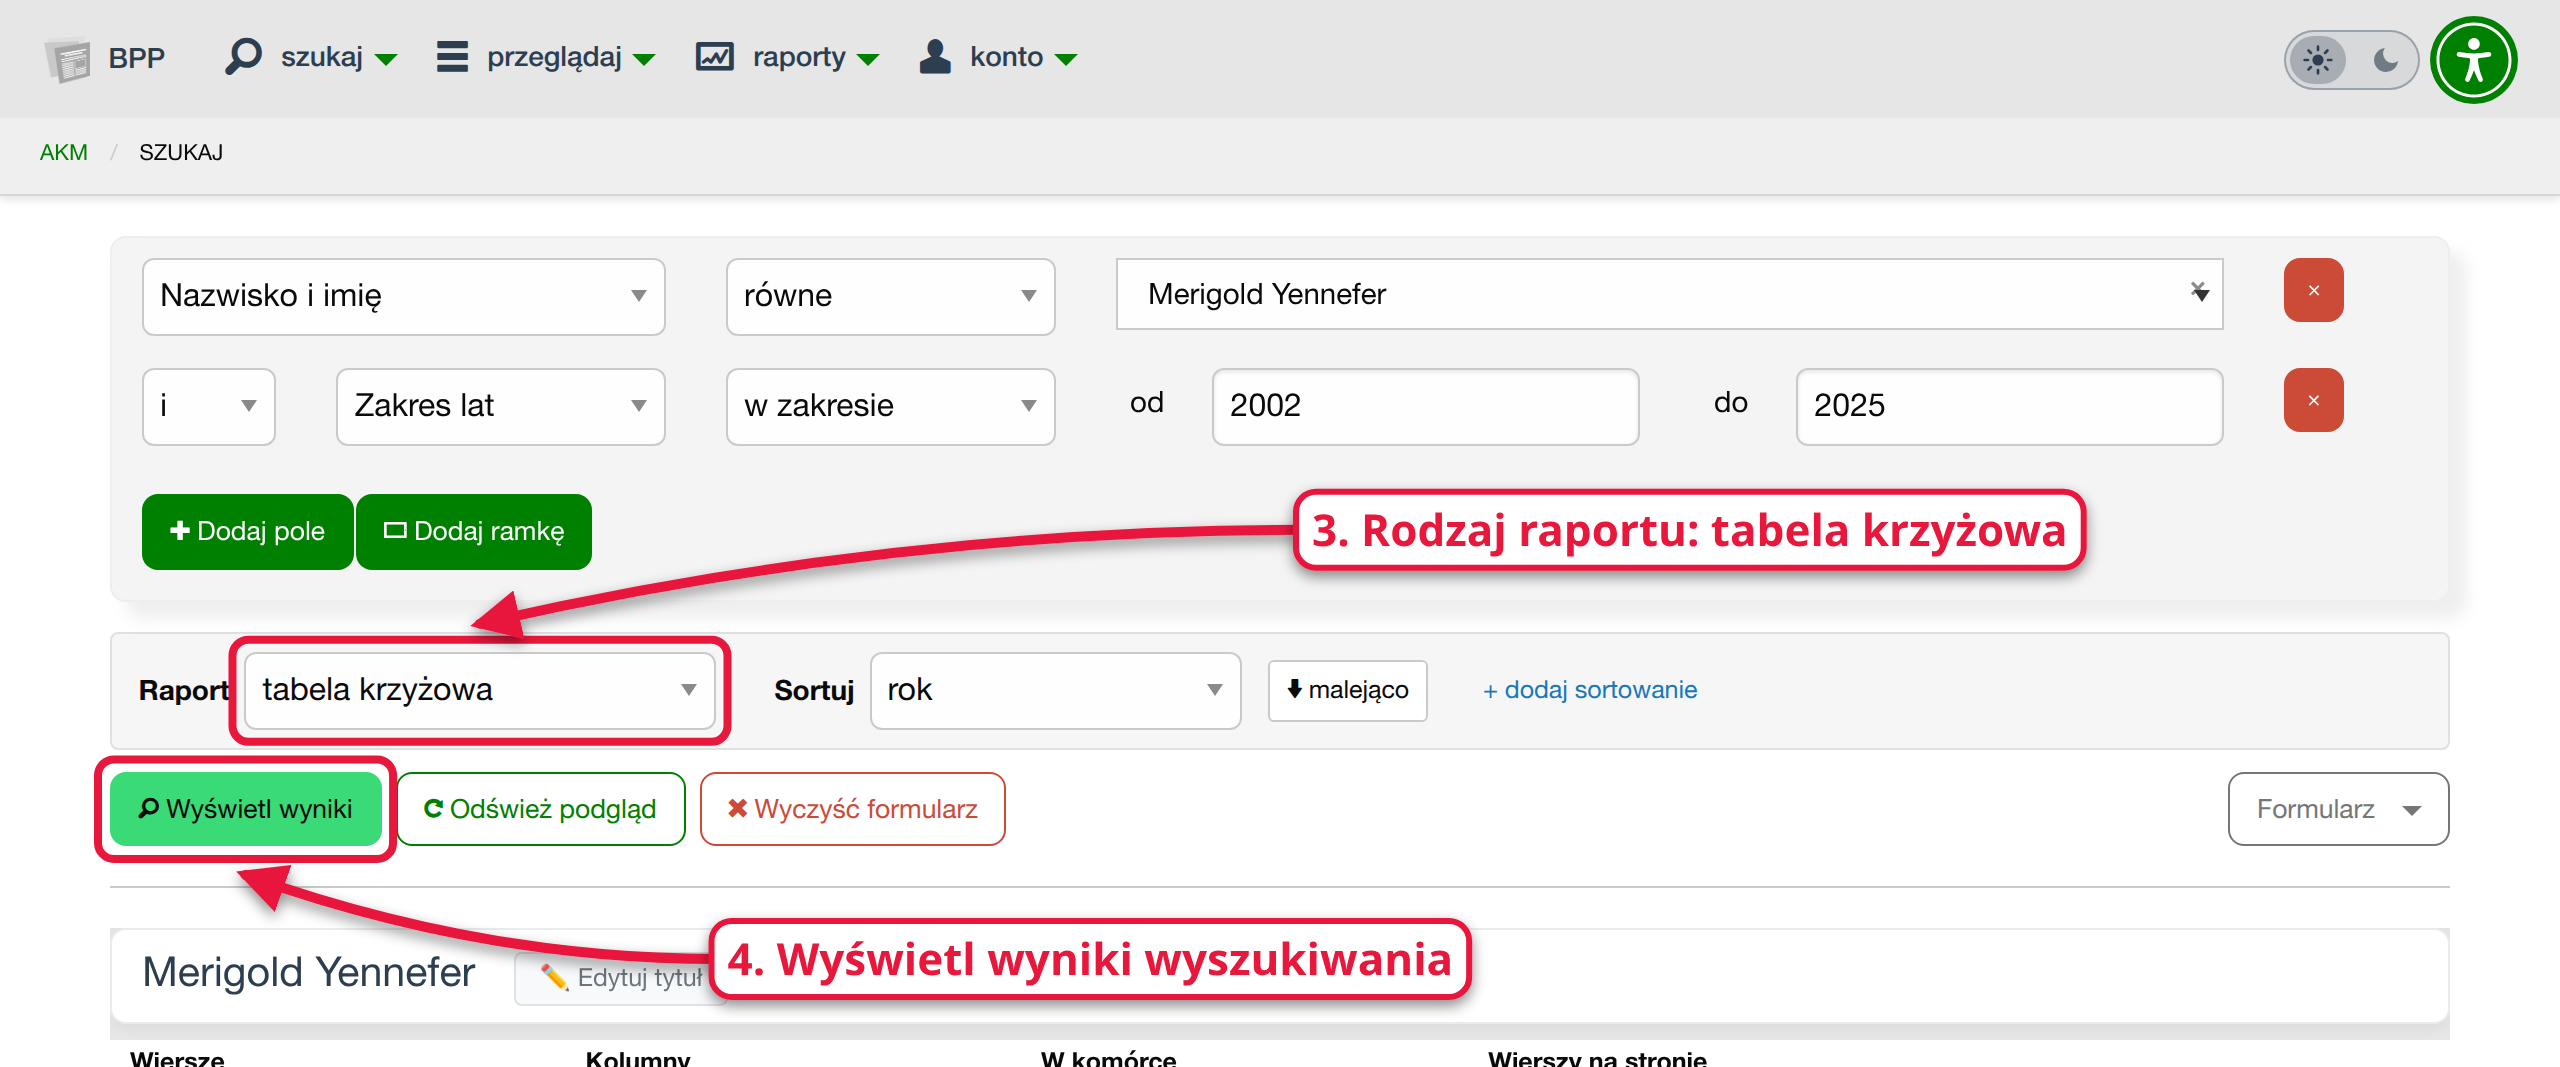
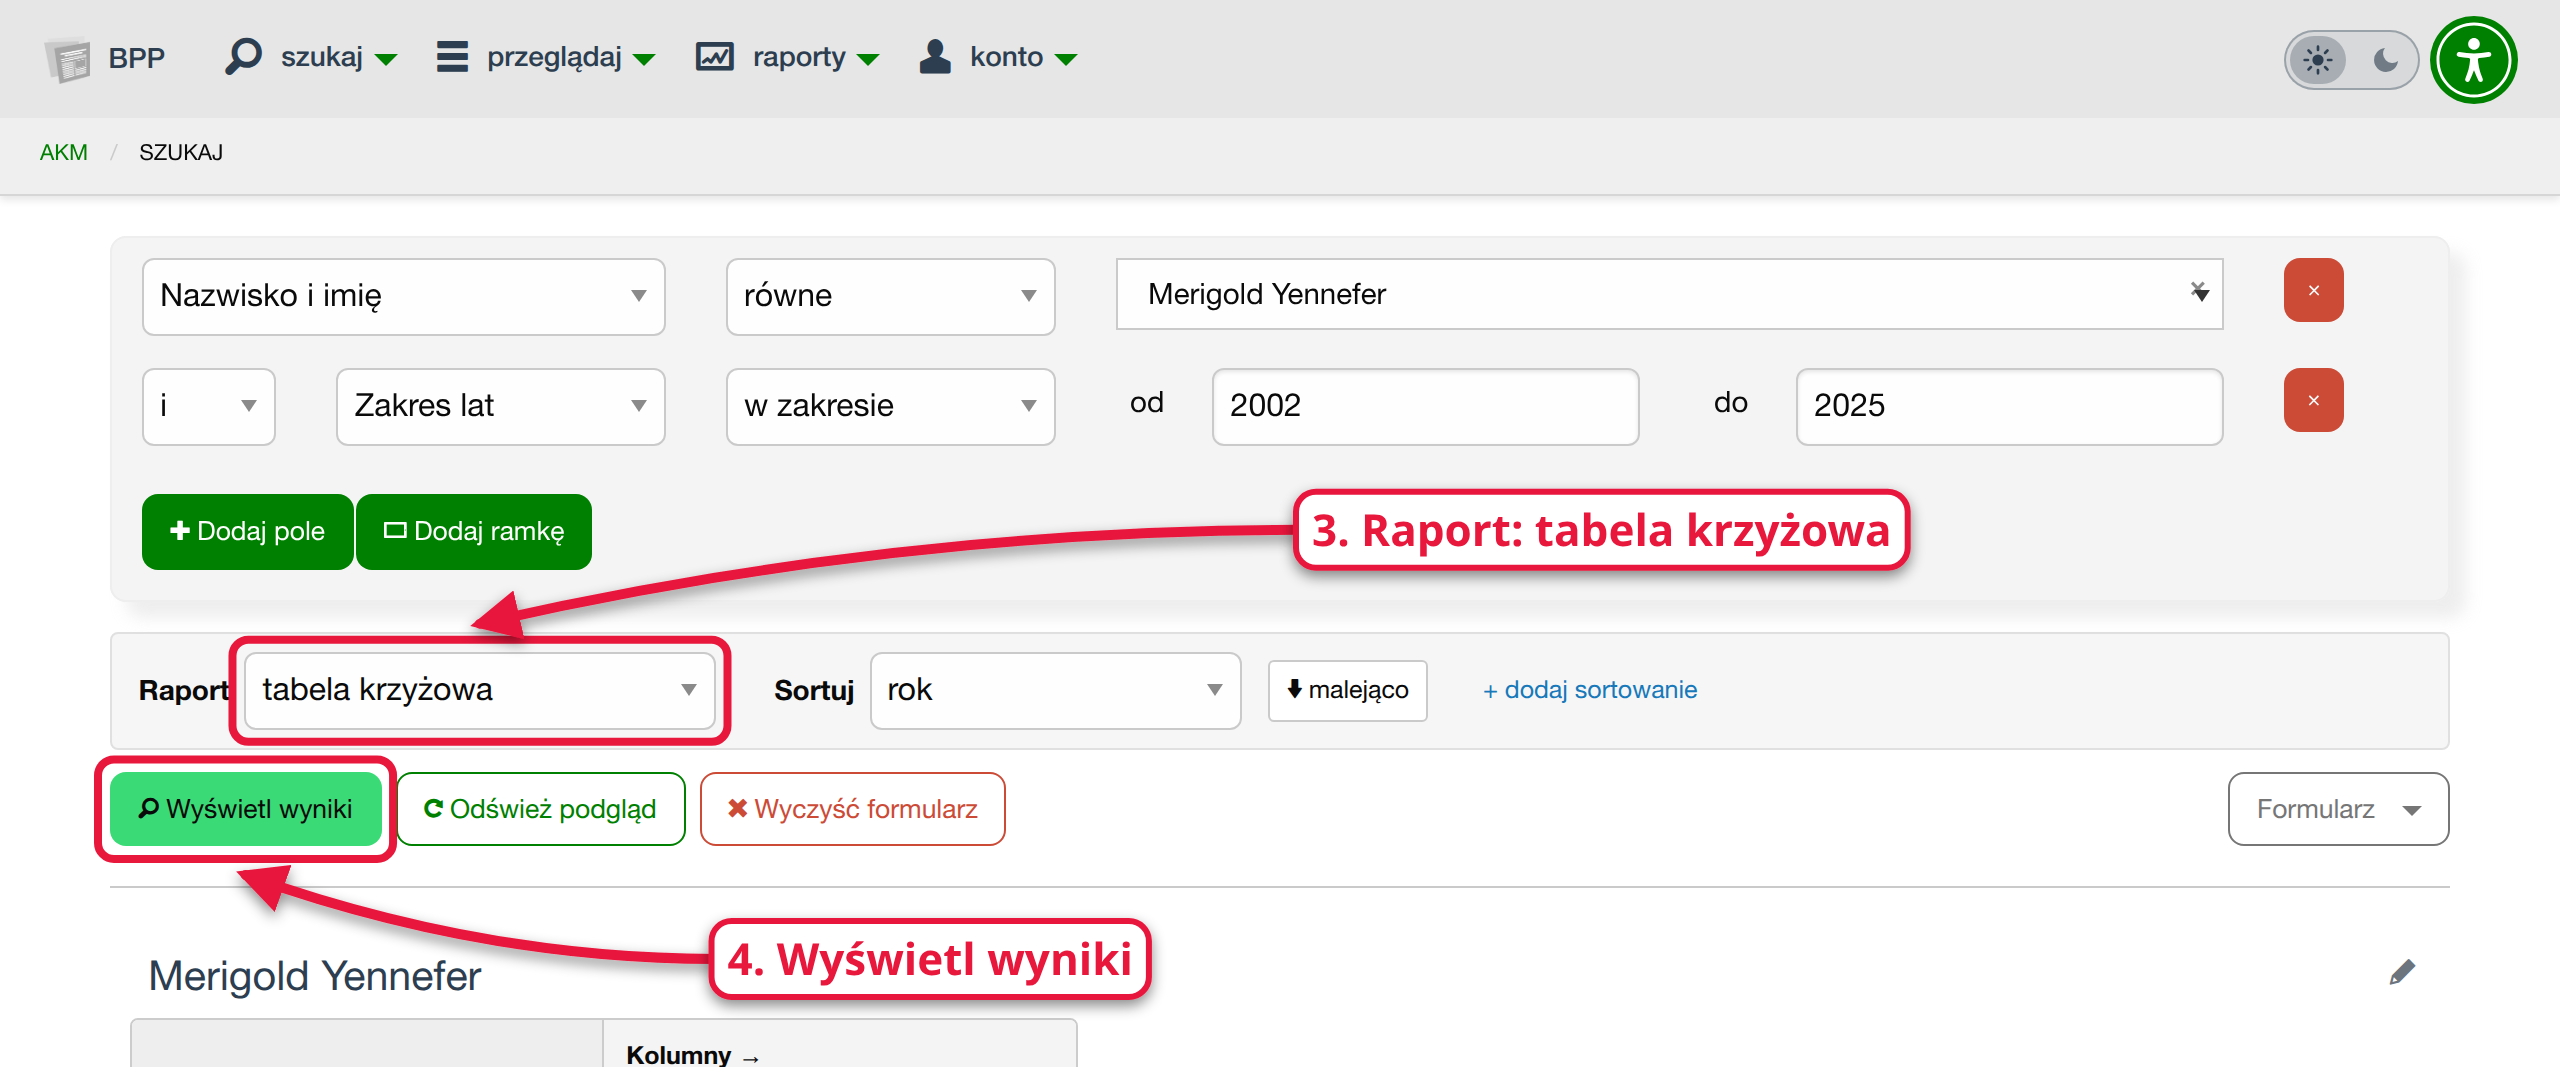
Dokumentacja wyszukiwania precyzyjnego: nazwy z obecnego formularza
Commit 5520080b8 zmienił formularz wyszukiwania precyzyjnego, a
dokumentacja i podpisy na zrzutach nadal używały starych nazw:
- „Wyświetl wyniki wyszukiwania” → „Wyświetl wyniki”,
- „Resetuj formularz” → „Wyczyść formularz”,
- lista „Rodzaj raportu” → „Raport”,
- „Sortuj według” + dwa „a następnie” → „Sortuj” i „+ dodaj sortowanie”
  („potem”, najwyżej dwa poziomy, przełącznik rosnąco/malejąco),
- „Pokaż jako zapytanie DjangoQL” to pozycja menu „Formularz”, nie
  osobny przycisk; „Wczytaj formularz” → lista „Wczytaj zapisany
  formularz” w tym menu.

Nazwy sprawdzone w src/django_bpp/templates/multiseek/index.html.
Przegenerowane tylko zrzuty ze zmienionymi podpisami:
tabela-krzyzowa/02-formularz-rodzaj-raportu.png,
wyszukiwanie-precyzyjne/03-raport-przyciski.png.

Claude-Session: https://claude.ai/code/session_01Mr7s9p8Mji5yWfDm2AB4hC

diff --git a/bin/docs-screenshots.py b/bin/docs-screenshots.py
@@ -6715,14 +6715,14 @@ def tabela_krzyzowa(page: Page, base: str, out: Path) -> None:
                 # label right of "Dodaj ramkę", so the arrow passes below it
                 "sel": "#id_report_type",
                 "arrow": "above",
-                "label": "3. Rodzaj raportu: tabela krzyżowa",
+                "label": "3. Raport: tabela krzyżowa",
                 "dx": 350,
                 "dy": 55,
             },
             {
                 "sel": "#multiseek-szukaj",
                 "arrow": "below",
-                "label": "4. Wyświetl wyniki wyszukiwania",
+                "label": "4. Wyświetl wyniki",
                 "dx": 175,
                 "dy": -60,
             },
@@ -8311,7 +8311,7 @@ def wyszukiwanie_precyzyjne(page: Page, base: str, out: Path) -> None:
             {
                 "sel": "#id_report_type",
                 "arrow": "above",
-                "label": "rodzaj raportu",
+                "label": "raport",
                 "dx": -30,
                 "dy": -30,
             },

diff --git a/docs/uzytkownik/wyszukiwanie-precyzyjne.md b/docs/uzytkownik/wyszukiwanie-precyzyjne.md
@@ -123,31 +123,32 @@ rozdział):
 Bez ramki „autor i książka lub rozdział” znalazłoby książki tej autorki
 **oraz wszystkie rozdziały w bazie**, także cudze.
 
-## Podgląd, pełne wyniki, rodzaj raportu i sortowanie
+## Podgląd, pełne wyniki, raport i sortowanie
 
 Pod warunkami znajdziesz:
 
-- **Rodzaj raportu** — jak pokazać wyniki: **lista** (opisy
+- **Raport** — jak pokazać wyniki: **lista** (opisy
   bibliograficzne), **tabela** (z kolumnami IF, PK, charakter, typ),
   **punktacja sumaryczna** (tabela z sumami punktów), **BibTeX** (do
   skopiowania przyciskiem „Skopiuj wszystko do schowka”) oraz **tabela
   krzyżowa** — zestawienie liczb w wierszach i kolumnach (osobny artykuł:
   [Tabela krzyżowa](tabela-krzyzowa.md)). Zalogowani mają dodatkowo
   m.in. „numerowaną listę z uwagami” i warianty z liczbą cytowań.
-- **Sortuj według** oraz dwa razy **„a następnie”** — do trzech poziomów
-  sortowania (rok, tytuł, punkty, impact factor, liczba cytowań, charakter
-  formalny…). Pole **„malejąco”** odwraca kolejność. Domyślnie: rok,
-  malejąco.
-- **„Wyświetl wyniki wyszukiwania”** — otwiera osobną stronę z pełnymi
+- **Sortuj** — kryterium sortowania (rok, tytuł, punkty, impact factor,
+  liczba cytowań, charakter formalny…). Przycisk **„+ dodaj sortowanie”**
+  dokłada drugie kryterium (**„potem”**), **×** je usuwa — najwyżej dwa
+  poziomy. Przełącznik obok pola (**„↑ rosnąco”** / **„↓ malejąco”**)
+  zmienia kierunek. Domyślnie: rok, malejąco.
+- **„Wyświetl wyniki”** — otwiera osobną stronę z pełnymi
   wynikami (patrz [Praca z wynikami](wyszukiwanie-precyzyjne-wyniki.md)).
 - **„Odśwież podgląd”** — pokazuje wyniki **pod formularzem**, bez
   opuszczania strony. Podgląd nie odświeża się sam po zmianie warunku —
-  kliknij ten przycisk. Zmiana rodzaju raportu albo sortowania odświeża
+  kliknij ten przycisk. Zmiana raportu albo sortowania odświeża
   podgląd od razu.
-- **„Resetuj formularz”** — po potwierdzeniu czyści wszystkie warunki,
+- **„Wyczyść formularz”** — po potwierdzeniu czyści wszystkie warunki,
   przywraca domyślny tytuł i listę ręcznie usuniętych rekordów.
 
-![Rodzaj raportu, sortowanie, przyciski formularza i podgląd wyników z licznikiem „Razem”](../images/uzytkownik/wyszukiwanie-precyzyjne/03-raport-przyciski.png)
+![Raport, sortowanie, przyciski formularza i podgląd wyników z licznikiem „Razem”](../images/uzytkownik/wyszukiwanie-precyzyjne/03-raport-przyciski.png)
 
 Nad podglądem i wynikami widać **„Parametry zapytania”** — Twoje warunki
 zapisane zdaniem. To dobre miejsce, by sprawdzić, czy system zrozumiał
@@ -168,7 +169,7 @@ i kliknij **„Szukaj publikacji”**.
 
 Otworzy się formularz wyszukiwania precyzyjnego z **już wpisanymi
 warunkami** — możesz je zmieniać, dodawać kolejne albo od razu kliknąć
-„Wyświetl wyniki wyszukiwania”. Tytuł wyników przejmie wartość z pola
+„Wyświetl wyniki”. Tytuł wyników przejmie wartość z pola
 „Tytuł wyników” na stronie autora.
 
 ![Formularz otwarty ze strony autora: warunki „Nazwisko i imię” i „Zakres lat” są już wpisane](../images/uzytkownik/wyszukiwanie-precyzyjne/04-formularz-ze-strony-autora.png)
@@ -177,8 +178,9 @@ Każde takie przejście zaczyna nowe wyszukiwanie: poprzednie warunki
 i lista ręcznie usuniętych rekordów są zastępowane.
 
 !!! note "Dla redaktorów"
-    Redaktorzy widzą dodatkowo przycisk **„Pokaż jako zapytanie DjangoQL”**,
-    który przekłada formularz na zapytanie tekstowe — patrz
+    Redaktorzy mają dodatkowo w menu **„Formularz”** (po prawej, pod
+    warunkami) pozycję **„Pokaż jako zapytanie DjangoQL”**, która przekłada
+    formularz na zapytanie tekstowe — patrz
     [Wyszukiwanie i redagowanie](../redaktor/wyszukiwanie-redagowanie.md).
 
 ## Zobacz też

diff --git a/docs/uzytkownik/wyszukiwanie-precyzyjne-wyniki.md b/docs/uzytkownik/wyszukiwanie-precyzyjne-wyniki.md
@@ -2,7 +2,7 @@
 
 Gdy zapytanie jest gotowe (patrz
 [Wyszukiwanie precyzyjne — podstawy](wyszukiwanie-precyzyjne.md)), kliknij
-**„Wyświetl wyniki wyszukiwania”**. Otworzy się strona wyników — ten
+**„Wyświetl wyniki”**. Otworzy się strona wyników — ten
 artykuł opisuje, co można na niej zrobić: nadać tytuł, przejrzeć,
 wydrukować, ręcznie wyrzucić pojedyncze rekordy i pobrać plik.
 
@@ -28,14 +28,15 @@ zdaniem.
 
 ## Sortowanie
 
-Kolejność wyników ustawiasz **w formularzu**, polami **„Sortuj według”**
-i dwoma **„a następnie”** (do trzech poziomów, każdy z opcją
+Kolejność wyników ustawiasz **w formularzu**, polem **„Sortuj”**
+i — po kliknięciu **„+ dodaj sortowanie”** — drugim kryterium **„potem”**
+(najwyżej dwa poziomy, każdy z przełącznikiem **„rosnąco”** /
 **„malejąco”**). Do wyboru są m.in. rok, tytuł oryginalny, impact factor,
 liczba cytowań, liczba autorów, punkty MNiSW/MEiN, charakter formalny,
 typ MNiSW/MEiN i źródło. Domyślnie: rok, malejąco.
 
 Aby zmienić kolejność już wyświetlonych wyników, kliknij **„Powrót”**,
-zmień sortowanie i ponownie **„Wyświetl wyniki wyszukiwania”**. W podglądzie
+zmień sortowanie i ponownie **„Wyświetl wyniki”**. W podglądzie
 pod formularzem zmiana sortowania działa od razu.
 
 ## Tytuł zestawienia
@@ -51,7 +52,7 @@ więc warto go ustawić przed drukowaniem.
 
 ![Pole edycji tytułu z wpisanym nowym tytułem](../images/uzytkownik/wyszukiwanie-precyzyjne-wyniki/02-edycja-tytulu.png)
 
-Tytuł jest pamiętany do końca sesji przeglądarki. „Resetuj formularz”
+Tytuł jest pamiętany do końca sesji przeglądarki. „Wyczyść formularz”
 przywraca tytuł domyślny.
 
 ## Ręczne usuwanie rekordów z wyników {#reczne-usuwanie}
@@ -86,7 +87,7 @@ N rekord(ów).”** z przyciskami:
 
 Ręczne usunięcia obowiązują **tylko w Twojej sesji przeglądarki** — nie
 zmieniają niczego w bazie i inni użytkownicy ich nie widzą. Lista usuniętych
-jest czyszczona przy „Resetuj formularz” i gdy zaczynasz nowe wyszukiwanie
+jest czyszczona przy „Wyczyść formularz” i gdy zaczynasz nowe wyszukiwanie
 ze strony autora, jednostki czy źródła. Zmiana samych warunków w formularzu
 jej nie czyści. Wydruk i eksport uwzględniają usunięcia.
 

diff --git a/docs/uzytkownik/tabela-krzyzowa.md b/docs/uzytkownik/tabela-krzyzowa.md
@@ -30,13 +30,12 @@ Otworzy się formularz wyszukiwania precyzyjnego z gotowymi warunkami
 2025). Warunki możesz dalej zmieniać, dodawać (**„Dodaj pole”**) albo
 zbudować całe zapytanie od zera w **szukaj → precyzyjnie**.
 
-### 2. Wybierz rodzaj raportu „tabela krzyżowa”
+### 2. Wybierz raport „tabela krzyżowa”
 
-1. Pod warunkami, na liście **„Rodzaj raportu”**, wybierz **tabela
-   krzyżowa**.
-2. Kliknij **„Wyświetl wyniki wyszukiwania”**.
+1. Pod warunkami, na liście **„Raport”**, wybierz **tabela krzyżowa**.
+2. Kliknij **„Wyświetl wyniki”**.
 
-![Formularz wyszukiwania precyzyjnego: warunki (autor i zakres lat), „Rodzaj raportu: tabela krzyżowa” i przycisk „Wyświetl wyniki wyszukiwania”](../images/uzytkownik/tabela-krzyzowa/02-formularz-rodzaj-raportu.png)
+![Formularz wyszukiwania precyzyjnego: warunki (autor i zakres lat), „Raport: tabela krzyżowa” i przycisk „Wyświetl wyniki”](../images/uzytkownik/tabela-krzyzowa/02-formularz-rodzaj-raportu.png)
 
 !!! note "Podgląd pod formularzem"
     Tabela krzyżowa pokazuje się też w podglądzie pod formularzem. Każda
@@ -107,8 +106,7 @@ mówi, ile było wszystkich artykułów, książek, rozdziałów itd.
 
 1. Na stronie jednostki (**przeglądaj → jednostki**) zaznacz lata, np.
    2020–2025, i kliknij **„Szukaj publikacji”**.
-2. Wybierz **Rodzaj raportu: tabela krzyżowa** i kliknij **„Wyświetl wyniki
-   wyszukiwania”**.
+2. Wybierz **Raport: tabela krzyżowa** i kliknij **„Wyświetl wyniki”**.
 3. Ustaw **Wiersze: Autor**, **Kolumny: Rok**, **W komórce: Liczba prac**.
 4. Kliknij nagłówek **RAZEM** — autorzy ułożą się od tego z największą
    liczbą prac.

diff --git a/docs/uzytkownik/wyszukiwanie-precyzyjne-przyklady.md b/docs/uzytkownik/wyszukiwanie-precyzyjne-przyklady.md
@@ -8,12 +8,12 @@ początku wiersza. Jak dodać warunek, spójnik i ramkę — opisuje
 
 We wszystkich przykładach:
 
-1. Otwórz **szukaj → precyzyjnie** i kliknij **„Resetuj formularz”**, żeby
+1. Otwórz **szukaj → precyzyjnie** i kliknij **„Wyczyść formularz”**, żeby
    zacząć od czystego formularza.
 2. Ustaw pierwszy warunek w istniejącym wierszu, każdy następny dodaj
    przyciskiem **„Dodaj pole”**.
 3. Kliknij **„Odśwież podgląd”** (wyniki pod formularzem) albo
-   **„Wyświetl wyniki wyszukiwania”** (osobna strona).
+   **„Wyświetl wyniki”** (osobna strona).
 
 Nazwy autorów i jednostek w przykładach pochodzą z danych demonstracyjnych —
 wpisz w ich miejsce swoje.
@@ -38,7 +38,7 @@ wszystkie prace autora z tych lat.
 | i | Punkty MNiSW/MEiN | większy lub równy | 100 |
 
 Dla całego wydziału z katedrami wybierz wydział i operator
-**„równa+podrzędne”**. Do sprawdzenia sum punktów przełącz **Rodzaj raportu**
+**„równa+podrzędne”**. Do sprawdzenia sum punktów przełącz **Raport**
 na „punktacja sumaryczna”.
 
 ## 3. Prace w danej dyscyplinie
@@ -71,7 +71,7 @@ wyniki do artykułów, dodając „Charakter formalny ogólny — równy — art
 | | Impact factor | większy, niż | 0 |
 | i | Rok | równy | 2024 |
 
-Ustaw **Rodzaj raportu: tabela** — zobaczysz IF każdej pracy w osobnej
+Ustaw **Raport: tabela** — zobaczysz IF każdej pracy w osobnej
 kolumnie, a na ostatniej stronie wyników wiersz **„Suma:”**.
 
 ## 6. Wspólne prace dwóch współautorów {#dwoch-wspolautorow}

diff --git a/docs/uzytkownik/wyszukiwanie-precyzyjne-zapisane.md b/docs/uzytkownik/wyszukiwanie-precyzyjne-zapisane.md
@@ -18,7 +18,7 @@ bez logowania mogą zapisane formularze **wczytywać**, ale nie zapisywać.
 
 1. Zbuduj zapytanie w formularzu **szukaj → precyzyjnie** (patrz
    [Wyszukiwanie precyzyjne — podstawy](wyszukiwanie-precyzyjne.md)).
-   Zapisywane są warunki, a także rodzaj raportu i sortowanie.
+   Zapisywane są warunki, a także wybrany raport i sortowanie.
 2. Kliknij **„Formularz”** (pod warunkami, po prawej) i wybierz
    **„Zapisz formularz…”**.
 
@@ -78,7 +78,7 @@ jest co najmniej jeden formularz.
 Osobnego udostępniania wybranym osobom nie ma — formularz jest albo
 prywatny, albo publiczny dla wszystkich. Aby udostępnić zapytanie
 koledze, zapisz je jako **publiczne** i podaj mu nazwę: znajdzie je na
-liście „Wczytaj formularz”.
+liście „Wczytaj zapisany formularz” w menu „Formularz”.
 
 ## Usuwanie i porządkowanie
 

diff --git a/docs/uzytkownik/pobieranie-listy-publikacji.md b/docs/uzytkownik/pobieranie-listy-publikacji.md
@@ -23,7 +23,7 @@ wyszukiwarce (**szukaj → szybko**, klawisz `/`) albo wybierz je z listy
     ![Sekcja „Wyszukaj publikacje autora” z zaznaczonymi latami i przyciskiem „Szukaj publikacji”](../images/uzytkownik/pobieranie-listy-publikacji/01-strona-autora-szukaj.png)
 
 3. Otworzy się formularz wyszukiwania z już wpisanymi warunkami — kliknij
-   **„Wyświetl wyniki wyszukiwania”**.
+   **„Wyświetl wyniki”**.
 4. Nad listą wyników rozwiń **„Eksport”** i wybierz format:
     - **DOCX (Word)** — gotowa lista opisów bibliograficznych,
     - **XLS: opis bibliograficzny** — to samo w Excelu,

diff --git a/src/bpp/newsfragments/nazwy-wyszukiwarki-precyzyjnej.doc.rst b/src/bpp/newsfragments/nazwy-wyszukiwarki-precyzyjnej.doc.rst
@@ -1,0 +1,1 @@
+Dokumentacja wyszukiwania precyzyjnego, tabeli krzyżowej i pobierania listy publikacji używa nazw z obecnego formularza: „Wyświetl wyniki” (zamiast „Wyświetl wyniki wyszukiwania”), „Wyczyść formularz” (zamiast „Resetuj formularz”), lista „Raport” (zamiast „Rodzaj raportu”), sortowanie „Sortuj” / „+ dodaj sortowanie” (najwyżej dwa poziomy) oraz „Pokaż jako zapytanie DjangoQL” jako pozycja menu „Formularz”; podpisy na dwóch zrzutach poprawione.
